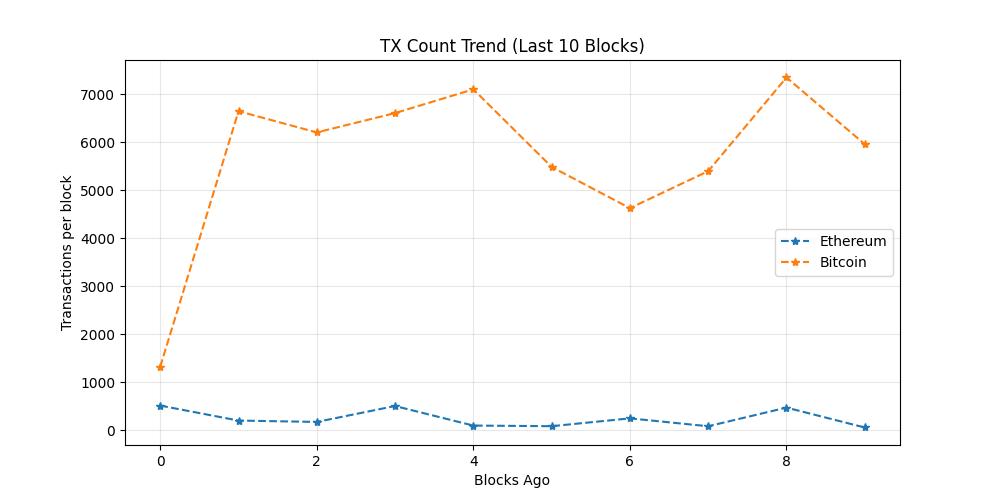
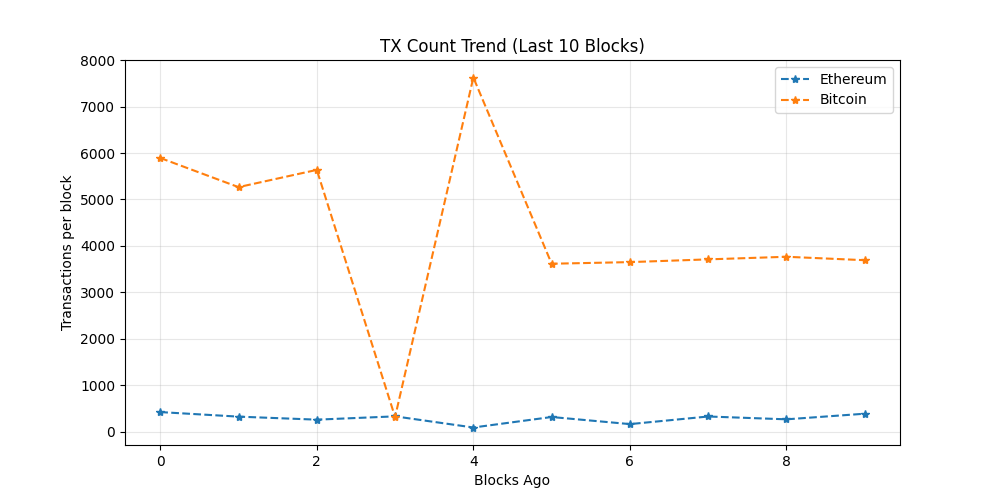
chore: update on-chain dashboard

diff --git a/README.md b/README.md
@@ -19,7 +19,7 @@ The README itself acts as the dashboard and is regenerated automatically on a 6 
 demonstrating a production-style, infrastructure-focused observability workflow rather
 than a traditional UI-driven approach.
 
-_Last updated: 2026-09-11 04:37 UTC_
+_Last updated: 2026-09-11 11:18 UTC_
 
 ## API Usage (GetBlock.io)
 - Calls used: **24**
@@ -27,8 +27,8 @@ _Last updated: 2026-09-11 04:37 UTC_
 ## Network Metrics
 | Chain | Block Height | TX Count | TPS (10 blk avg) | Block Util | Avg Fee |
 |------|-------------|----------|------------------|------------|---------|
-| Ethereum | 25951812 | 61 | 5.08 | 21.3% | 0.1 Gwei |
-| Bitcoin | 966456 | 5955 | 14.7 | 99.79% | N/A |
+| Ethereum | 25953811 | 386 | 32.17 | 45.0% | 0.1 Gwei |
+| Bitcoin | 966498 | 3692 | 6.97 | 99.79% | N/A |
 
 ## Visuals
 ### Transactions Trend
@@ -43,11 +43,11 @@ _Last updated: 2026-09-11 04:37 UTC_
 ## Whale Alerts (latest block)
 - Transaction hashes are truncated for readability.
 - Full hashes are available in `dashboards/metrics.json`
-- Bitcoin | 123.78 BTC | `be5dae474f90…`
-- Bitcoin | 113.0 BTC | `fe47f0e95248…`
-- Bitcoin | 107.21 BTC | `0ae0bd8df20f…`
-- Bitcoin | 2465.21 BTC | `c55c248f71fa…`
-- Bitcoin | 196.89 BTC | `558b8522b7a1…`
+- Bitcoin | 125.78 BTC | `cf1dc57f9dc0…`
+- Bitcoin | 125.75 BTC | `265359551ea1…`
+- Bitcoin | 127.59 BTC | `bbd91d6d46e1…`
+- Bitcoin | 289.36 BTC | `b1cea5556799…`
+- Bitcoin | 106.58 BTC | `95e293b0bf46…`
 
 ## Run locally
 
